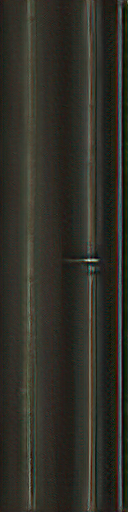
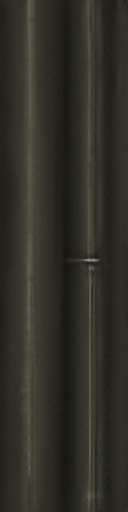
texture edits june 7

diff --git a/evaluator.py b/evaluator.py
@@ -10,10 +10,9 @@ class Evaluator():
         self.root=root
         self.tx_attributes=tx_attributes
 
-        if not tx_attributes[7]:
-            self.upPath="./gigapixel/"
-        else:
-            self.upPath="./ESRGAN/"
+        
+        self.upPath="./gigapixel/"
+        
         try:
             self.upImg = ImageTk.PhotoImage(Image.open(self.upPath+img))
         except:
@@ -43,7 +42,7 @@ class Evaluator():
         self.gname.set(str(self.tx_attributes[1]))
         self.gnamelabel=Entry(self.evalframe, textvariable=self.gname)
         self.gnamelabel.pack(side=TOP, fill=X, expand=1)
-        optionList=["New", "Ground", "Wall", "Metallic", "Object/Prop", "NPC", "Enemy", "Foliage",
+        optionList=["New", "Sign/Decal", "Ground", "Wall", "Metallic", "Object/Prop", "Skybox/BG", "NPC", "Enemy", "Foliage", "Fog, etc.",
                     "UI", "Zack - 2nd Class", "Zack - 1st Class", "Zack - Buster Sword", "Cissnei", "Tseng", "Angeal", "Genesis", "Hollander", "Lazard", "Sephiroth", "Cloud", "Tifa"]
 
         self.catoption = StringVar(self.root)
@@ -63,10 +62,10 @@ class Evaluator():
         self.hasshinra=Checkbutton(self.evalframe, text="Shinra Logo?", variable=self.hasshinravar)
         self.hasshinra.pack(side=LEFT, fill=X, expand=1)
 
-        self.useesrganvar=IntVar(self.root)
-        self.useesrganvar.set(self.tx_attributes[7])
-        self.useesrgan=Checkbutton(self.evalframe, text="Use ESRGAN?", variable=self.useesrganvar)
-        self.useesrgan.pack(side=LEFT, fill=X, expand=1)
+        self.editedvar=IntVar(self.root)
+        self.editedvar.set(self.tx_attributes[7])
+        self.edited=Checkbutton(self.evalframe, text="Edited", variable=self.editedvar)
+        self.edited.pack(side=LEFT, fill=X, expand=1)
 
         self.ignoretexturevar=IntVar(self.root)
         self.ignoretexturevar.set(self.tx_attributes[8])
@@ -75,16 +74,13 @@ class Evaluator():
         
         
     def write_record(self):
-        update_attributes = [self.gname.get(), self.catoption.get(), self.hastextvar.get(), self.hasshinravar.get(), self.useesrganvar.get(), self.ignoretexturevar.get(), self.tx_attributes[0] ]
+        update_attributes = [self.gname.get(), self.catoption.get(), self.hastextvar.get(), self.hasshinravar.get(), self.editedvar.get(), self.ignoretexturevar.get(), self.tx_attributes[0] ]
 
         return update_attributes
 
     def update_frames(self, img, tx_attributes):
         self.tx_attributes=tx_attributes
-        if not tx_attributes[7]:
-            self.upPath="./gigapixel/"
-        else:
-            self.upPath="./ESRGAN/"
+        
         try:
             self.upImg = ImageTk.PhotoImage(Image.open(self.upPath+img))
         except:
@@ -98,7 +94,7 @@ class Evaluator():
         self.catoption.set(self.tx_attributes[4])
         self.hastextvar.set(self.tx_attributes[5])
         self.hasshinravar.set(self.tx_attributes[6])
-        self.useesrganvar.set(self.tx_attributes[7])
+        self.editedvar.set(self.tx_attributes[7])
         self.ignoretexturevar.set(self.tx_attributes[8])
 
     def return_left(self):
